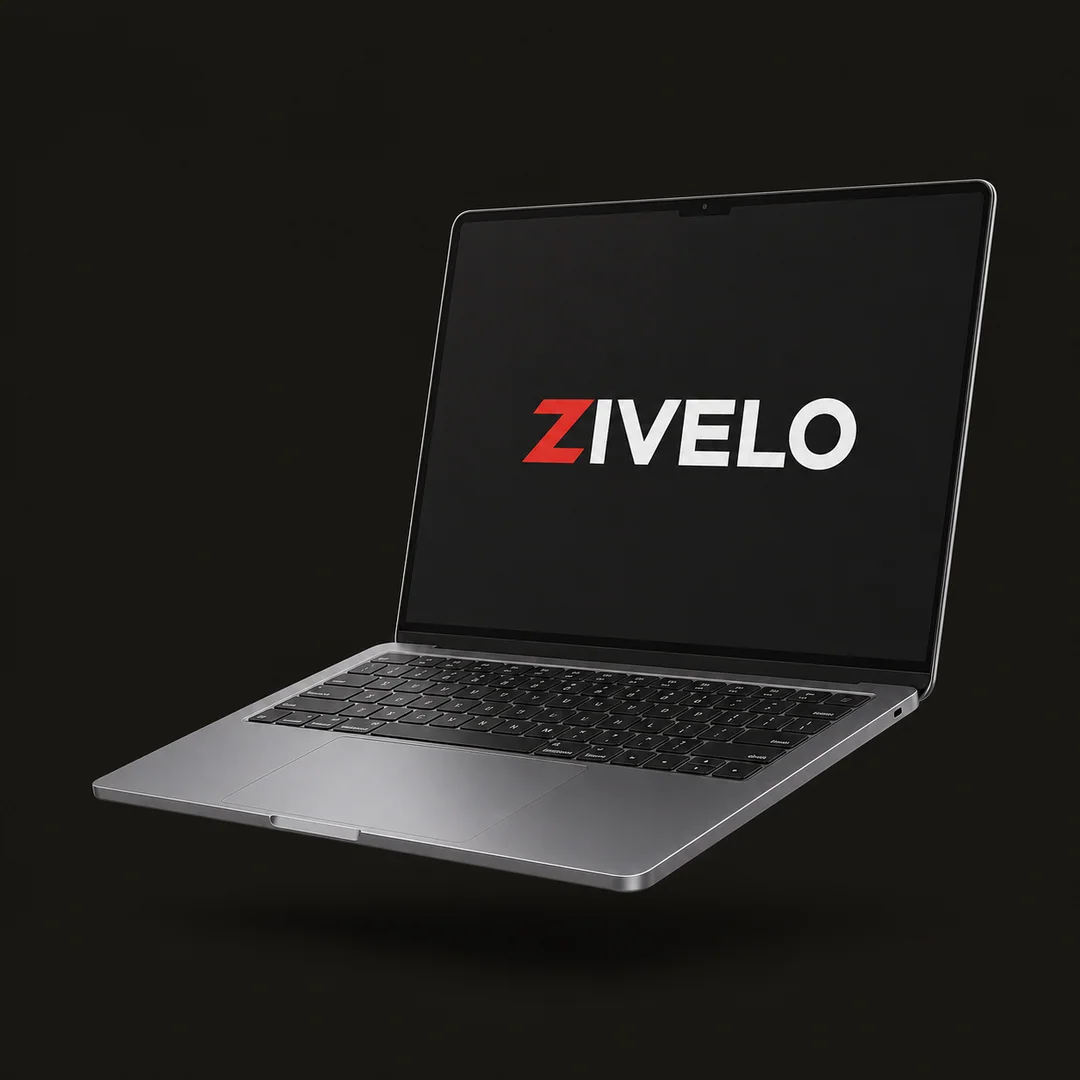
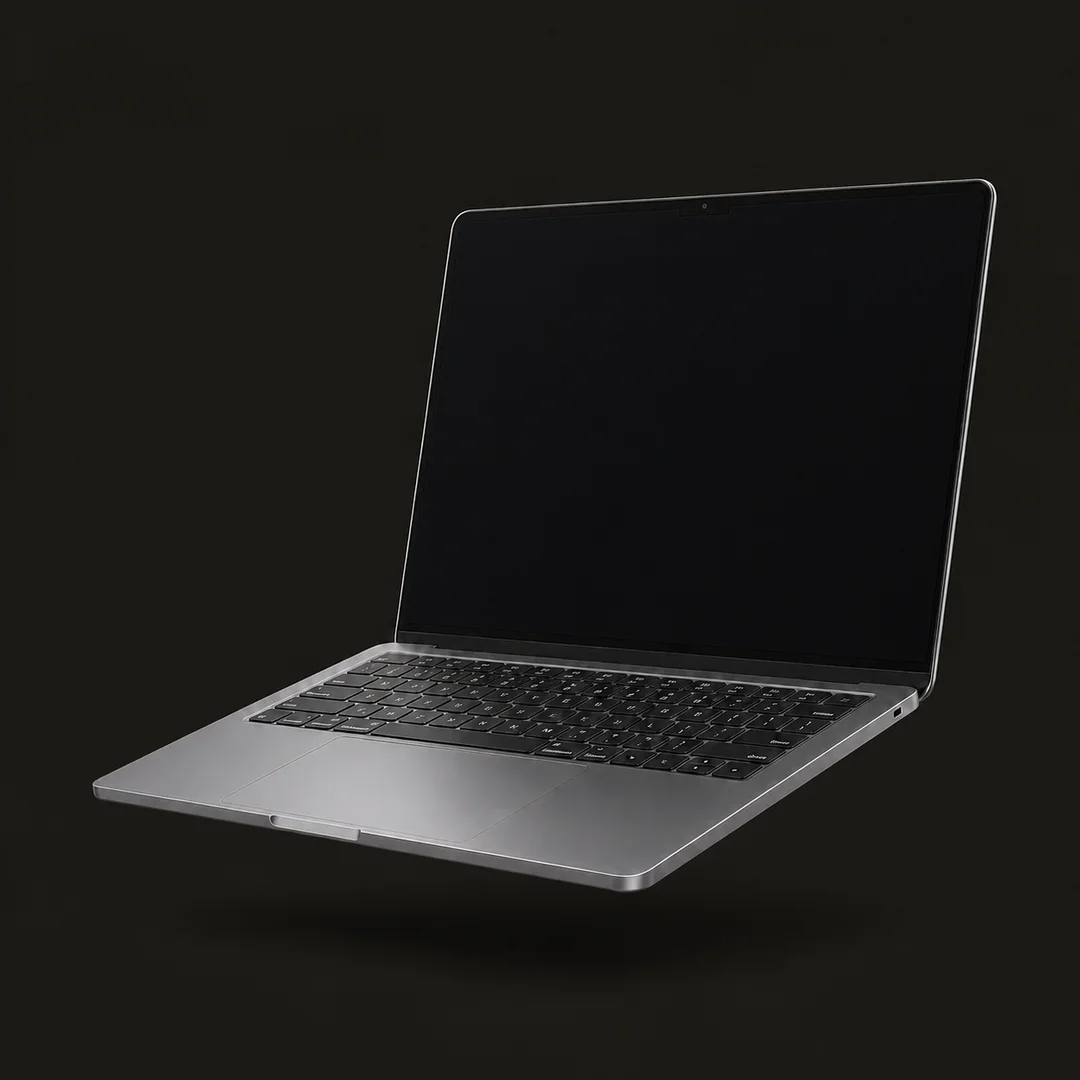
fix: correct laptop proportions and brand asset

diff --git a/src/components/hero-laptop-scene.tsx b/src/components/hero-laptop-scene.tsx
@@ -3,6 +3,7 @@
 import { Canvas, useFrame, useLoader, useThree } from "@react-three/fiber";
 import { useEffect, useMemo, useRef, type MutableRefObject } from "react";
 import * as THREE from "three";
+import { RoundedBoxGeometry } from "three/examples/jsm/geometries/RoundedBoxGeometry.js";
 import { HERO_LAPTOP_DEFAULT_ROTATION } from "@/lib/hero-laptop-rotation";
 
 interface HeroLaptopSceneProps {
@@ -77,7 +78,9 @@ function LaptopModel({
   const currentRotationRef = useRef(initialRotation);
   const hasRenderedRef = useRef(false);
   const keyboardTexture = useMemo(() => createKeyboardTexture(), []);
-  const loadedLogoTexture = useLoader(THREE.TextureLoader, "/assets/logo-white-full.svg");
+  const baseGeometry = useMemo(() => new RoundedBoxGeometry(3.64, 0.13, 2.56, 5, 0.075), []);
+  const lidGeometry = useMemo(() => new RoundedBoxGeometry(3.56, 2.24, 0.085, 5, 0.08), []);
+  const loadedLogoTexture = useLoader(THREE.TextureLoader, "/assets/logo-white-compact.svg");
   const logoTexture = useMemo(() => {
     const texture = loadedLogoTexture.clone();
     texture.colorSpace = THREE.SRGBColorSpace;
@@ -90,10 +93,12 @@ function LaptopModel({
   useEffect(() => {
     invalidate();
     return () => {
+      baseGeometry.dispose();
       keyboardTexture?.dispose();
+      lidGeometry.dispose();
       logoTexture.dispose();
     };
-  }, [invalidate, keyboardTexture, logoTexture]);
+  }, [baseGeometry, invalidate, keyboardTexture, lidGeometry, logoTexture]);
 
   function handleAfterRender() {
     if (hasRenderedRef.current) return;
@@ -118,43 +123,41 @@ function LaptopModel({
   });
 
   return (
-    <group ref={groupRef} position={[0, -0.68, 0.05]} rotation={[0.035, initialRotation, 0]} scale={scale}>
-      <mesh onAfterRender={handleAfterRender} position={[0, -0.03, 0.08]}>
-        <boxGeometry args={[3.62, 0.16, 2.38]} />
-        <meshStandardMaterial color="#8f939a" metalness={0.76} roughness={0.28} />
+    <group ref={groupRef} position={[0, -0.7, 0.06]} rotation={[0.025, initialRotation, 0]} scale={scale}>
+      <mesh geometry={baseGeometry} onAfterRender={handleAfterRender} position={[0, 0, 0.08]}>
+        <meshStandardMaterial color="#888c93" metalness={0.78} roughness={0.27} />
       </mesh>
-      <mesh position={[0, 0.064, 0.04]}>
-        <boxGeometry args={[3.52, 0.035, 2.27]} />
-        <meshStandardMaterial color="#a5a8ad" metalness={0.82} roughness={0.3} />
+      <mesh position={[0, 0.073, 0.08]}>
+        <boxGeometry args={[3.47, 0.016, 2.38]} />
+        <meshStandardMaterial color="#a7aab0" metalness={0.76} roughness={0.31} />
       </mesh>
-      <mesh position={[0, 0.086, -0.23]} rotation={[-Math.PI / 2, 0, 0]}>
-        <planeGeometry args={[3.02, 1.22]} />
+      <mesh position={[0, 0.085, -0.27]} rotation={[-Math.PI / 2, 0, 0]}>
+        <planeGeometry args={[2.94, 1.18]} />
         <meshStandardMaterial color="#1a1c20" map={keyboardTexture ?? undefined} roughness={0.72} />
       </mesh>
-      <mesh position={[0, 0.089, 0.68]} rotation={[-Math.PI / 2, 0, 0]}>
-        <planeGeometry args={[1.28, 0.56]} />
-        <meshStandardMaterial color="#858990" metalness={0.7} roughness={0.38} />
+      <mesh position={[0, 0.087, 0.7]} rotation={[-Math.PI / 2, 0, 0]}>
+        <planeGeometry args={[1.36, 0.68]} />
+        <meshStandardMaterial color="#92969d" metalness={0.68} roughness={0.36} />
       </mesh>
-      <mesh position={[0, 0.1, -1.04]} rotation={[0, 0, Math.PI / 2]}>
-        <cylinderGeometry args={[0.105, 0.105, 3.18, 28]} />
+      <mesh position={[0, 0.1, -1.16]} rotation={[0, 0, Math.PI / 2]}>
+        <cylinderGeometry args={[0.085, 0.085, 3.1, 28]} />
         <meshStandardMaterial color="#303338" metalness={0.9} roughness={0.24} />
       </mesh>
 
-      <group position={[0, 1.18, -1.14]} rotation={[-0.11, 0, 0]}>
-        <mesh>
-          <boxGeometry args={[3.62, 2.28, 0.1]} />
+      <group position={[0, 0.07, -1.2]} rotation={[-0.14, 0, 0]}>
+        <mesh geometry={lidGeometry} position={[0, 1.12, 0]}>
           <meshStandardMaterial color="#292b2f" metalness={0.82} roughness={0.25} />
         </mesh>
-        <mesh position={[0, 0, 0.057]}>
-          <planeGeometry args={[3.36, 2.03]} />
+        <mesh position={[0, 1.12, 0.047]}>
+          <planeGeometry args={[3.3, 1.98]} />
           <meshBasicMaterial color="#0d0e10" />
         </mesh>
-        <mesh position={[0, 0.02, 0.071]}>
-          <planeGeometry args={[2.18, 0.48]} />
+        <mesh position={[0, 1.14, 0.054]}>
+          <planeGeometry args={[0.82, 0.598]} />
           <meshBasicMaterial depthWrite={false} map={logoTexture} transparent toneMapped={false} />
         </mesh>
-        <mesh position={[0, -0.92, 0.066]}>
-          <circleGeometry args={[0.018, 20]} />
+        <mesh position={[0, 2.16, 0.052]}>
+          <circleGeometry args={[0.014, 20]} />
           <meshBasicMaterial color="#30343a" />
         </mesh>
       </group>
@@ -172,7 +175,7 @@ export function HeroLaptopScene({
   return (
     <Canvas
       aria-hidden="true"
-      camera={{ fov: 34, near: 0.1, far: 40, position: [0, 2.25, 7.5] }}
+      camera={{ fov: 33, near: 0.1, far: 40, position: [0, 2.35, 7.65] }}
       className="hero-laptop__canvas"
       dpr={[1, 1.5]}
       frameloop="demand"

diff --git a/src/app/[locale]/globals.css b/src/app/[locale]/globals.css
@@ -519,16 +519,28 @@ html[data-theme="dark"] .btn--primary:hover { filter: brightness(0.85); }
 }
 .hero-laptop:active { cursor: grabbing; }
 .hero-laptop:focus-visible { outline: 2px solid var(--accent-l); outline-offset: 5px; }
-.hero-laptop__poster { z-index: 0; object-fit: cover; transform: scale(1.08); transition: opacity 240ms ease; }
+.hero-laptop__poster { z-index: 0; object-fit: cover; transition: opacity 240ms ease; }
 .hero-laptop__poster--light { display: block; }
 .hero-laptop__poster--dark { display: none; }
 html[data-theme="dark"] .hero-laptop__poster--light { display: none; }
 html[data-theme="dark"] .hero-laptop__poster--dark { display: block; }
-.hero-laptop[data-ready="true"] .hero-laptop__poster { opacity: 0; }
+.hero-laptop__poster-logo {
+  position: absolute;
+  z-index: 1;
+  top: 39%;
+  left: 64%;
+  width: 13%;
+  height: auto;
+  transform: translate(-50%, -50%) rotate(-0.6deg);
+  pointer-events: none;
+  transition: opacity 240ms ease;
+}
+.hero-laptop[data-ready="true"] .hero-laptop__poster,
+.hero-laptop[data-ready="true"] .hero-laptop__poster-logo { opacity: 0; }
 .hero-laptop__canvas {
   position: absolute !important;
   inset: 0;
-  z-index: 1;
+  z-index: 2;
   opacity: 0;
   pointer-events: none;
   transition: opacity 240ms ease;
@@ -560,7 +572,7 @@ html[data-theme="dark"] .hero-laptop__poster--dark { display: block; }
   .hero-laptop__hint { justify-content: center; margin-top: 4px; font-size: 0.63rem; }
 }
 @media (prefers-reduced-motion: reduce){
-  .hero-laptop__poster, .hero-laptop__canvas { transition: none; }
+  .hero-laptop__poster, .hero-laptop__poster-logo, .hero-laptop__canvas { transition: none; }
 }
 
 /* Hero B — centered authority */

diff --git a/src/components/hero-laptop.tsx b/src/components/hero-laptop.tsx
@@ -141,14 +141,24 @@ export function HeroLaptop({ label, hint }: HeroLaptopProps) {
           fill
           priority
           sizes="(max-width: 900px) 100vw, 48vw"
-          src="/assets/hero-laptop-dark.webp"
+          src="/assets/hero-laptop-dark.webp?v=2"
+          unoptimized
         />
         <Image
           alt=""
           className="hero-laptop__poster hero-laptop__poster--light"
           fill
           sizes="(max-width: 900px) 100vw, 48vw"
-          src="/assets/hero-laptop-light.webp"
+          src="/assets/hero-laptop-light.webp?v=2"
+          unoptimized
+        />
+        <Image
+          alt=""
+          aria-hidden="true"
+          className="hero-laptop__poster-logo"
+          height={119}
+          src="/assets/logo-white-compact.svg"
+          width={163}
         />
         <SceneBoundary onError={handleSceneUnavailable}>
           <HeroLaptopScene
